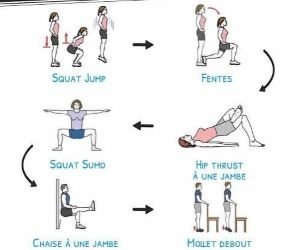
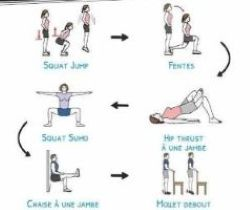
sport 1

diff --git a/Les Prestations.html b/Les Prestations.html
@@ -41,7 +41,7 @@
 
             <li class="text-align-center">
 
-                <img class="" src="asset/logo val (homme et en fond salle de musculation) modifié.png" alt="">
+                <img class="" src="asset/logo val (homme et en fond salle de musculation) modifié v.2.png" alt="">
 
                 <p class="colorwhite">
                     <br>Sapientia mentis, Robur cordis Aequilibrium crurum
@@ -114,9 +114,9 @@
 
         <section class="flex margin-top-30 gap dynapuff-uniquifier">
 
-            <img class="marginleft1" src="asset/instructeur-personnel-d-entraîneur.jpg" alt="">
+            <img class="marginleft2" src="asset/instructeur-personnel-d-entraîneur.jpg" alt="">
 
-            <p class="box-shadows backgroundcolor3 border-raduis">
+            <p class=" marginleft1 backgroundcolor3 border-raduis">
 
                 <br>-Coach sportif à disposition
                 <br>
@@ -134,7 +134,7 @@
 
             </p>
             <br>
-            <img class="" src="asset/seance de muscu sans materiel 100.jpg" alt="">
+            <img class="marginleft" src="asset/seance de muscu sans materiel 100.jpg" alt="">
 
         </section>
 

diff --git a/index.html b/index.html
@@ -22,7 +22,7 @@
 
 <header class="flex space-between">
 
-    <label class="switch marginright">
+    <label class="switch">
 
         <input type="checkbox" id="theme-toggle">
 
@@ -39,7 +39,7 @@
 
             <li class="text-align-center">
 
-                <img class="" src="asset/logo val (homme et en fond salle de musculation) modifié.png" alt="">
+                <img class="" src="asset/logo val (homme et en fond salle de musculation) modifié v.2.png" alt="">
 
                 <p class="colorwhite">
                     <br>Sapientia mentis, Robur cordis Aequilibrium crurum
@@ -56,7 +56,7 @@
 
     <script src="script.js"></script>
 
-    <button class="border backgroundcolor5 margin-bottom1 margin-top-30" type="button" commandfor="mydialog" command="show-modal">
+    <button class="border backgroundcolor5 margin-bottom1" type="button" commandfor="mydialog" command="show-modal">
 
         <img class="backgroundcolor4" src="asset/trois trait.png" alt="">
 

diff --git a/Abonnement hebdomadaire.html b/Abonnement hebdomadaire.html
@@ -40,7 +40,7 @@
 
             <li class="text-align-center">
 
-                <img class="" src="asset/logo val (homme et en fond salle de musculation) modifié.png" alt="">
+                <img class="" src="asset/logo val (homme et en fond salle de musculation) modifié v.2.png" alt="">
 
                 <p class="colorwhite">
                     <br>Sapientia mentis, Robur cordis Aequilibrium crurum

diff --git a/Abonnement mensuel.html b/Abonnement mensuel.html
@@ -41,7 +41,7 @@
 
             <li class="text-align-center">
 
-                <img class="" src="asset/logo val (homme et en fond salle de musculation) modifié.png" alt="">
+                <img class="" src="asset/logo val (homme et en fond salle de musculation) modifié v.2.png" alt="">
 
                 <p class="colorwhite">
                     <br>Sapientia mentis, Robur cordis Aequilibrium crurum

diff --git a/Infrastructure.html b/Infrastructure.html
@@ -39,7 +39,7 @@
 
             <li class="text-align-center">
 
-                <img class="" src="asset/logo val (homme et en fond salle de musculation) modifié.png" alt="">
+                <img class="" src="asset/logo val (homme et en fond salle de musculation) modifié v.2.png" alt="">
 
                 <p class="colorwhite">
                     <br>Sapientia mentis, Robur cordis Aequilibrium crurum

diff --git a/style.css b/style.css
@@ -129,11 +129,11 @@ h2 {
 }
 
 .marginleft1 {
-    margin-left: 80px;
+    margin-left: 115px;
 }
 
 .marginleft2 {
-    margin-left: 230px;
+    margin-left: 7px;
 }
 
 .marginleft3 {
